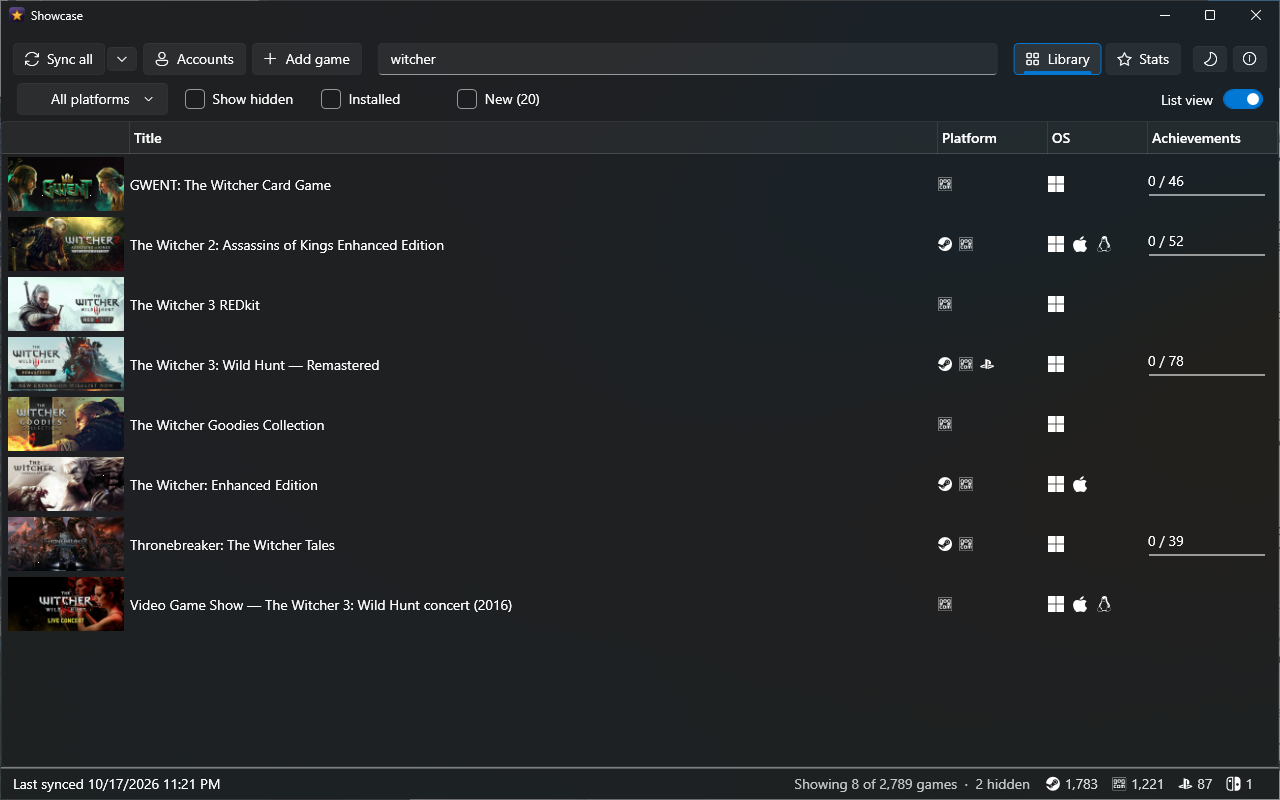
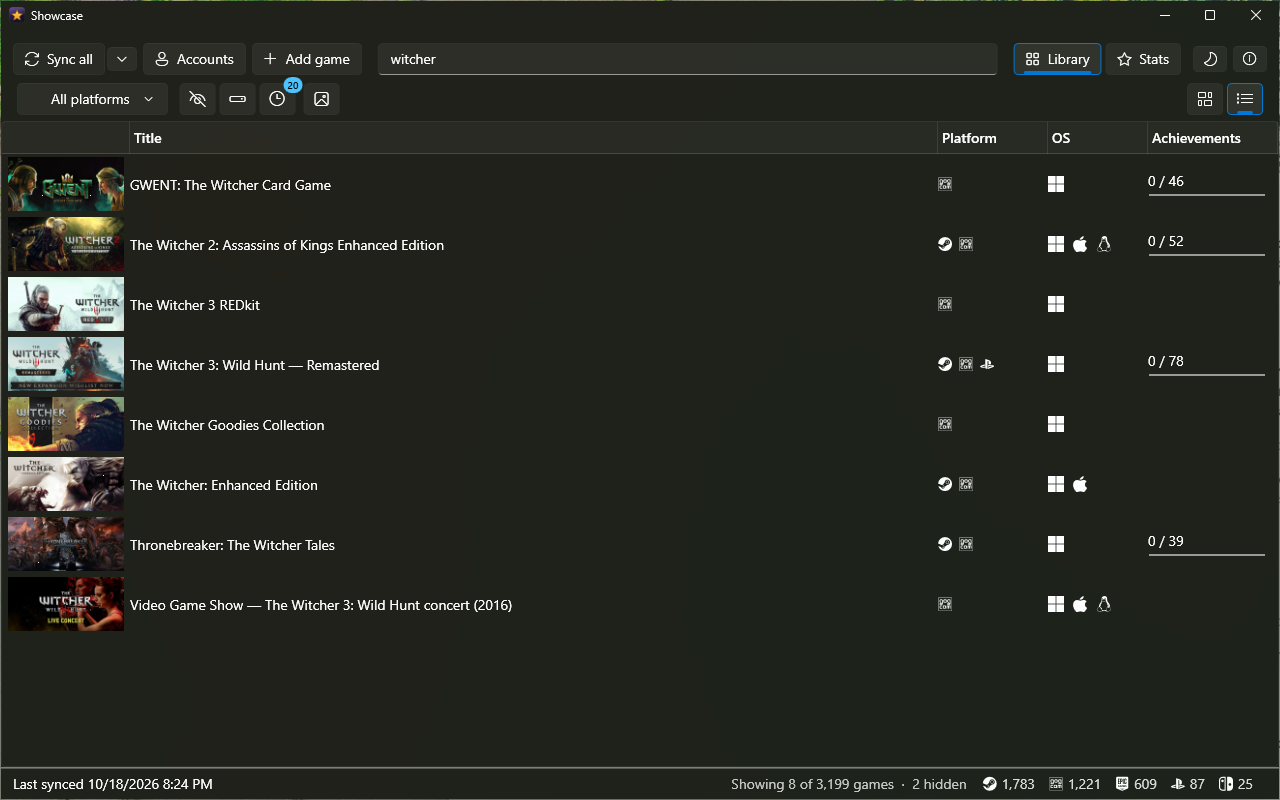
Showcase 1.3.0

diff --git a/CHANGELOG.md b/CHANGELOG.md
@@ -1,5 +1,9 @@
 # Changelog
 
+## 1.3.0 (2026-10-27)
+
+Two new brag cards in Stats: your rarest achievements (choose the six it shows), and what your collection costs at today's store prices on Steam, GOG, Epic, PlayStation and Nintendo. Right-click a game and choose Change poster to pick a better one from its stores, SteamGridDB or a file of your own; with a free SteamGridDB key, games with only square art or none get full-size posters automatically. The library bar's filters are icons now, plus a No art filter for the games still showing a Showcase cover. Also: Nintendo syncs again after Nintendo changed its purchase history page, Epic covers are shown whole, Steam achievements that share an icon are matched by name, and What's new shows an update's notes and date inside Showcase.
+
 ## 1.2.0 (2026-10-17)
 
 Right-click a game and choose Refresh metadata to fetch its title, art, platforms and achievements from its store again. A New filter shows the games that appeared in your library in the last 15 days. Newer Steam games now get their real covers, and a game with no art at all gets a Showcase cover with its title. Stats shows your achievements as a grid of games: open one for its achievements as cards, rarest first. Also: an Installed filter, Add game picks a platform from your signed-in stores, the sync menu lists only signed-in stores, calmer sync status and smoother filtering. Xbox is held back for now: Xbox Live stopped accepting the sign-in Showcase used.

diff --git a/README.md b/README.md
@@ -9,7 +9,7 @@ Steam, GOG, Epic Games, PlayStation, Xbox and Nintendo, plus the cartridges and 
 
 ## Download
 
-**[Showcase 1.2.0 for Windows (64-bit)](https://github.com/wizhut/showcase-releases/releases/download/v1.2.0/Showcase-1.2.0-x64.msi)** (52 MB)
+**[Showcase 1.3.0 for Windows (64-bit)](https://github.com/wizhut/showcase-releases/releases/download/v1.3.0/Showcase-1.3.0-x64.msi)** (52 MB)
 
 Run the installer: Showcase goes to Program Files with a Start menu shortcut, and .NET is included.
 It needs Windows 10 or 11 (64-bit) and the Microsoft Edge WebView2 runtime, which Windows 11 already has.
